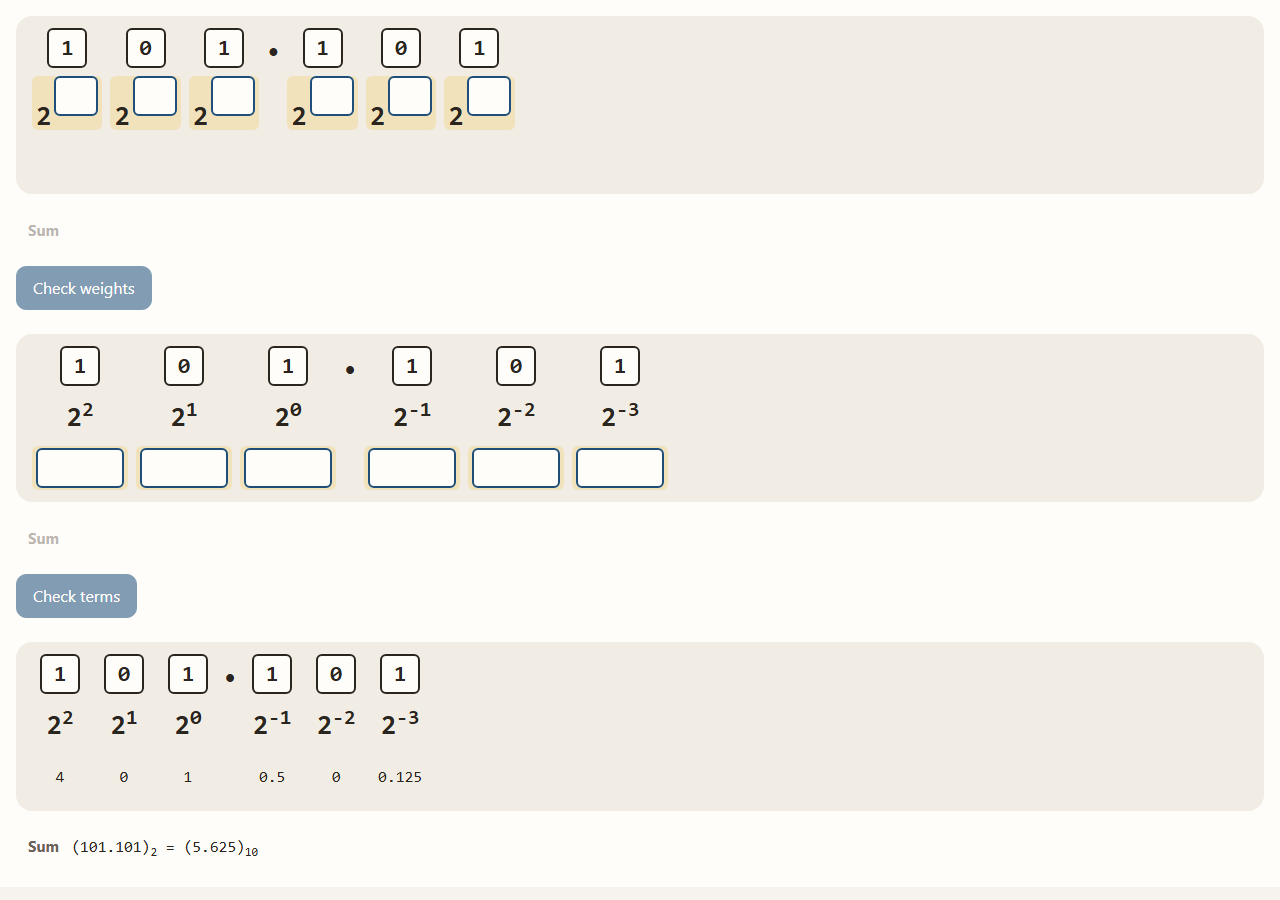
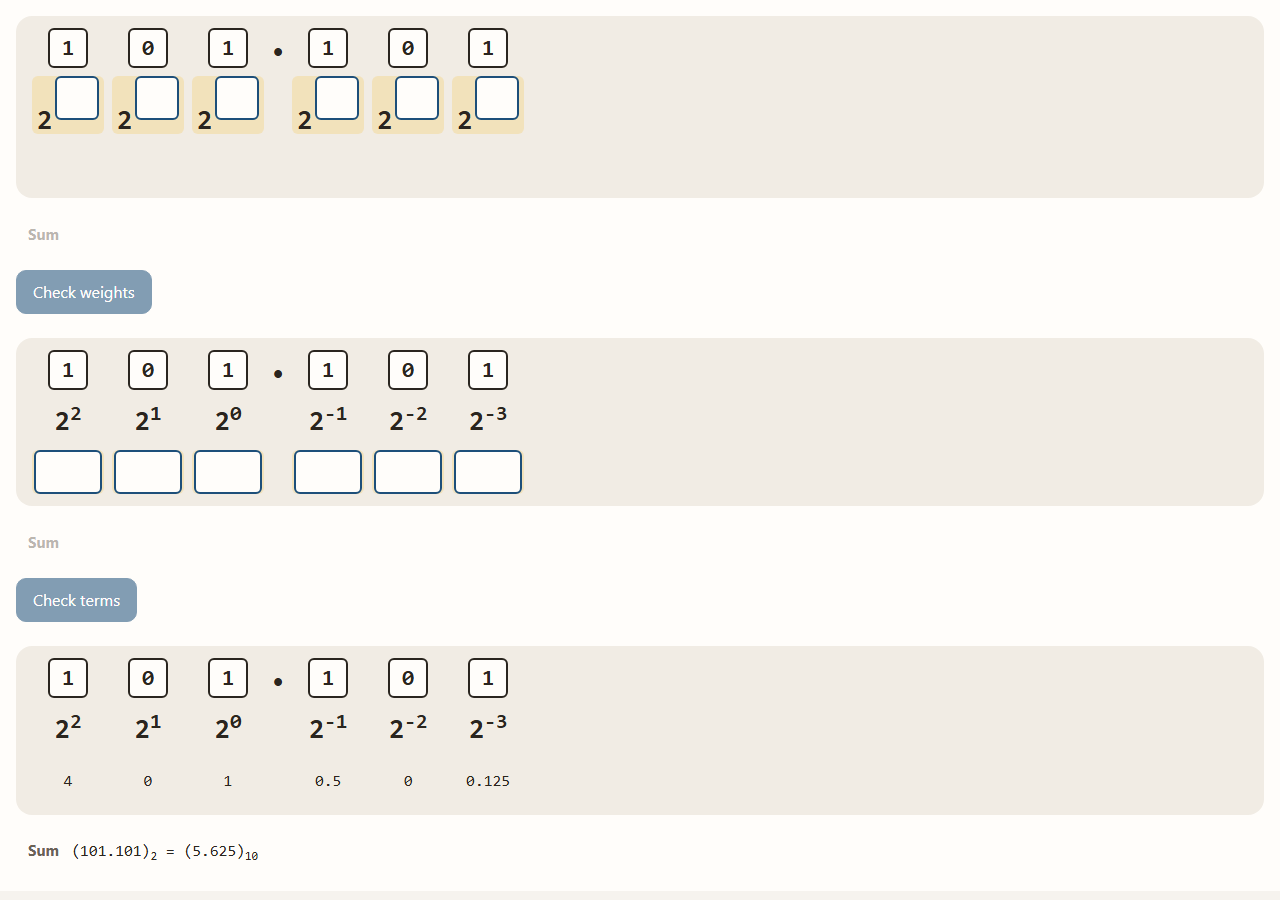
fix(kinds): base-to-decimal columns have one fixed width; term inputs fill their column (#416 UX)

diff --git a/src/kinds/base-to-decimal/WeightDiagram.module.css b/src/kinds/base-to-decimal/WeightDiagram.module.css
@@ -53,11 +53,13 @@
 }
 
 .cell {
+  box-sizing: border-box;
   display: grid;
   place-items: center;
-  min-width: 56px;
+  width: 100%;
+  min-width: 0;
   min-height: 44px;
-  padding: 0 var(--space-1);
+  padding: 0 2px;
   border-radius: var(--radius-sm);
   font-size: var(--text-base);
 }
@@ -89,8 +91,9 @@
   font-size: var(--text-base);
 }
 
+/* a term input fills its column */
 .wide {
-  width: 88px;
+  width: 100%;
 }
 
 .input:focus-visible {

diff --git a/src/kinds/base-to-decimal/WeightDiagram.tsx b/src/kinds/base-to-decimal/WeightDiagram.tsx
@@ -132,7 +132,7 @@ export function WeightDiagram({
         <div
           className={styles.grid}
           style={{
-            gridTemplateColumns: `repeat(${n + (pointAt >= 0 ? 1 : 0)}, auto)`,
+            gridTemplateColumns: Array.from({ length: n + (pointAt >= 0 ? 1 : 0) }, (_, c) => (pointAt >= 0 && c === pointAt ? "auto" : "72px")).join(" "),
           }}
         >
           {digits.map((d, i) => (
